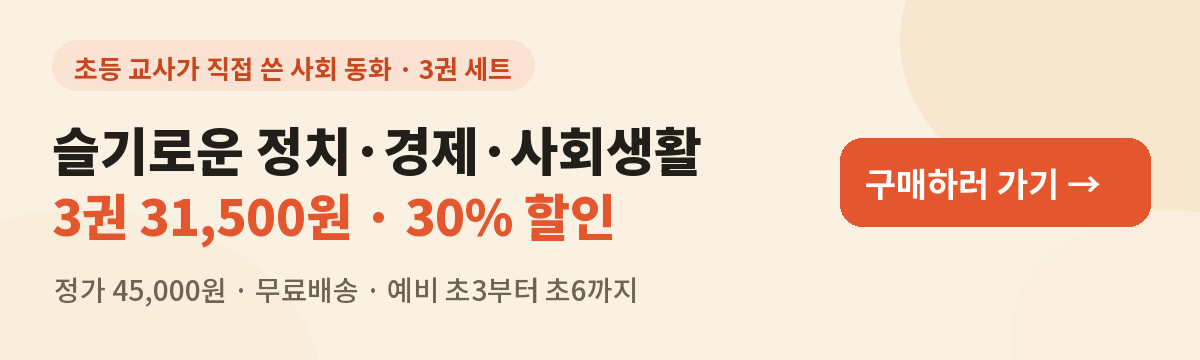
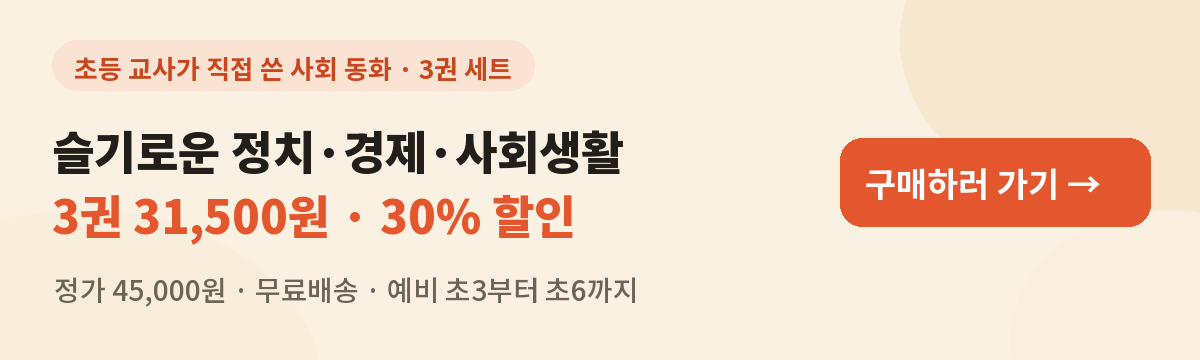
social: 상단 배너 문구 크기 조정, 미리보기 스크롤 위치 조정

Changed region(s): [[0.0308, 0.3361, 0.5858, 0.4889], [0.0308, 0.5194, 0.5242, 0.7028]]

diff --git a/preview/social390.html b/preview/social390.html
@@ -18,6 +18,6 @@ function prep(id, y, openDetail){
   });
 }
 prep('b', 1600, false);
-prep('c', 3320, true);
+prep('c', 3830, true);
 </script>
 </body></html>
